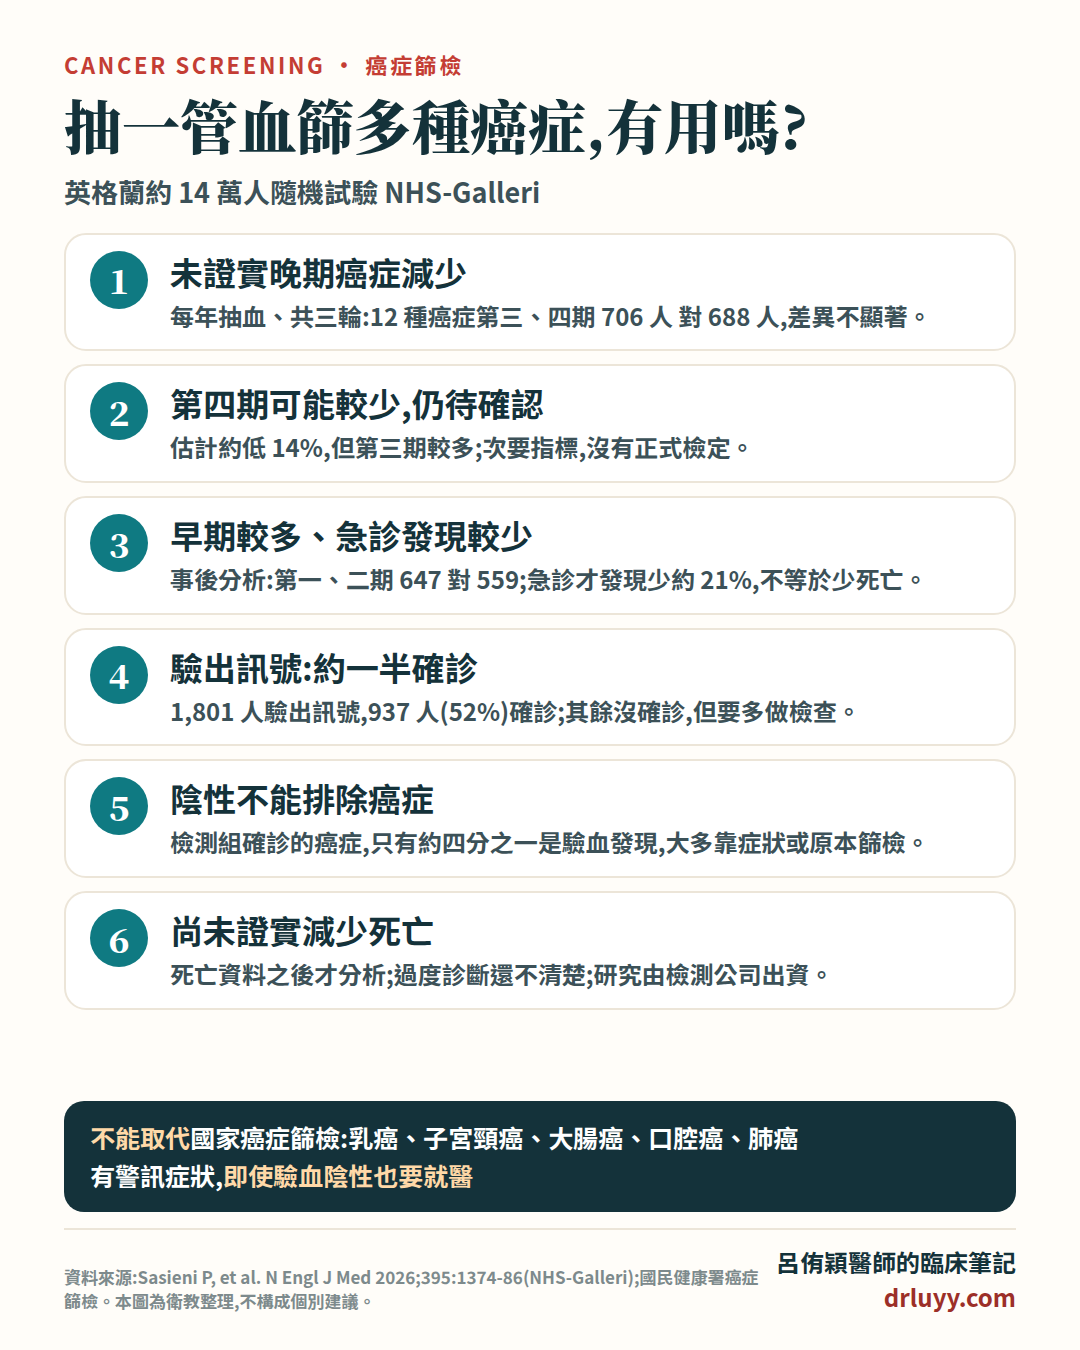
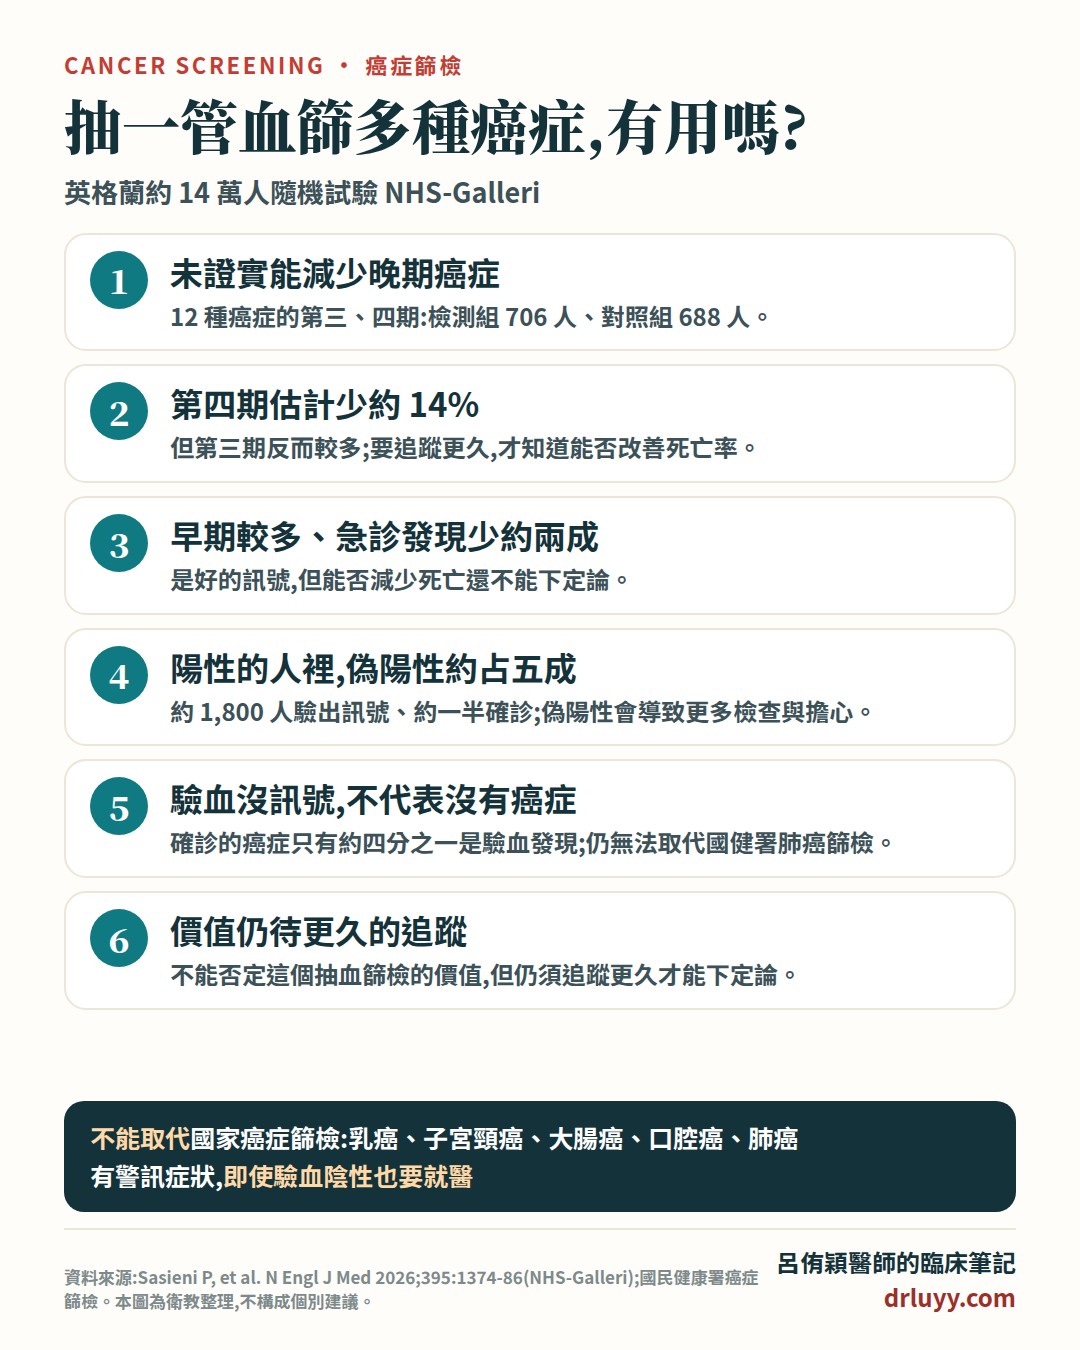
衛教卡觀點修改;影片連到文章

diff --git a/videos.html b/videos.html
@@ -22,7 +22,7 @@
 <meta name="twitter:image" content="https://drluyy.com/og-image.png">
 <link rel="icon" href="favicon.svg" type="image/svg+xml">
 <script type="application/ld+json">
-{"@context":"https://schema.org","@type":"CollectionPage","name":"衛教短影音","url":"https://drluyy.com/videos.html","inLanguage":"zh-TW","description":"呂侑穎醫師的心臟衛教短影音,一分半鐘看懂一個重點。","hasPart":[{"@type":"VideoObject","name":"打瘦瘦針,能改善睡眠呼吸中止嗎?","description":"大型試驗:平均每小時約 50 次的重度患者,打猛健樂一年少 25–29 次(安慰劑約 5 次),四到五成達到緩解或只剩輕度。台灣仿單已列入這個適應症,但目前沒有證據可以取代陽壓呼吸器。","thumbnailUrl":"https://drluyy.com/video/glp1-sleep-apnea.jpg","embedUrl":"https://www.youtube.com/embed/Pxpix6kGh5w","uploadDate":"2026-10-08"},{"@type":"VideoObject","name":"吃降膽固醇藥(史他汀),副作用很多?","description":"2026《刺胳針》彙整 12 萬多人雙盲試驗:轉胺酶升高每年約每 1,100 人多 1 人、尿蛋白約每 3,300 人、水腫約每 1,400 人多 1 人;肌肉症狀九成以上不是藥物造成;記憶、憂鬱、睡眠問題不支持是藥物造成。","thumbnailUrl":"https://drluyy.com/video/statin-side-effects.jpg","embedUrl":"https://www.youtube.com/embed/ObqJvSkbOhU","uploadDate":"2026-10-07"},{"@type":"VideoObject","name":"男性更年期,補睪固酮,心臟安全嗎?","description":"前提是真的缺:有症狀+不同日期兩次早上空腹抽血都偏低。大型試驗 TRAVERSE:心血管事件沒有明顯增加,但心房顫動、肺栓塞、急性腎損傷較多,骨折反而可能增加。睪固酮不是抗老藥。","thumbnailUrl":"https://drluyy.com/video/testosterone-heart.jpg","embedUrl":"https://www.youtube.com/embed/-3VRGAmf47E","uploadDate":"2026-10-07"},{"@type":"VideoObject","name":"魚油到底能不能顧心臟?50 多年的研究一次說清楚","description":"從格陵蘭的魚油神話、黃金年代、失落的十年,到高劑量 REDUCE-IT 與 STRENGTH 的大逆轉與礦物油爭議、心房顫動的代價,以及 2026 年血液透析病人的 PISCES 研究。EPA、DHA 差在哪?一般人該不該吃?10 分鐘說清楚。","thumbnailUrl":"https://drluyy.com/video/fish-oil-story.jpg","embedUrl":"https://www.youtube.com/embed/KcFZAurrV0c","uploadDate":"2026-10-06"},{"@type":"VideoObject","name":"喝茶、吃莓果,對血管有幫助嗎?","description":"茶、莓果、蘋果、柑橘、可可、黃豆、洋蔥都含類黃酮。2026 統合分析:血管擴張指標改善、血壓差異未達顯著,還不能證明會少得心臟病。食物優先,不必買補充品;高劑量綠茶萃取物可能傷肝。","thumbnailUrl":"https://drluyy.com/video/flavonoid-vascular.jpg","embedUrl":"https://www.youtube.com/embed/RF770M6NT6k","uploadDate":"2026-10-06"},{"@type":"VideoObject","name":"2 分鐘看懂最新研究:超過一半成人血管已有斑塊(REACT)","description":"NEJM 2026 REACT 研究,16,808 位 18–70 歲、無已知動脈硬化疾病成人:57% 至少一處有斑塊,18–29 歲約每 13 人就有 1 人;鈣化分數 0 不等於沒有斑塊;十年風險低不等於一輩子風險低。","thumbnailUrl":"https://drluyy.com/video/react-silent-atherosclerosis.jpg","embedUrl":"https://www.youtube.com/embed/pYH3h2oaMjs","uploadDate":"2026-10-05"},{"@type":"VideoObject","name":"膽固醇的風險,是累積出來的","description":"壞膽固醇不只看多高,也看多久:濃度 × 年數 = 累積暴露。家族性高膽固醇血症從小偏高累積特別快;持續降膽固醇,保護隨時間增加(每降約 39 mg/dL,重大血管事件相對風險第 1 年約 12%、第 7 年約 29%)。現在開始也有用。","thumbnailUrl":"https://drluyy.com/video/ldl-cumulative-exposure.jpg","embedUrl":"https://www.youtube.com/embed/v6VvtDtNB6M","uploadDate":"2026-10-05"},{"@type":"VideoObject","name":"打瘦瘦針期間,該怎麼吃?","description":"吃得少,更要吃得對:蛋白質每天至少 60 克、每餐 20–30 克,搭配肌力訓練;用「我的餐盤」檢查均衡;熱量不要太低;留意鈣、維生素 D、鐵、B12 和纖維;水分次喝,糖友吃少注意低血糖。","thumbnailUrl":"https://drluyy.com/video/glp1-diet.jpg","embedUrl":"https://www.youtube.com/embed/KoX4XHuXgGQ","uploadDate":"2026-10-04"},{"@type":"VideoObject","name":"喝咖啡護肝,是真的嗎?","description":"英國約 35 萬人、中位追蹤 13 年:每天 1–2 杯咖啡就看到較低的肝硬化、肝癌、肝病死亡風險,去咖啡因也相似;但不是越多越好,只是關聯,也未證實能治療脂肪肝。咖啡因每天 ≤400 毫克,孕婦 <200 毫克。","thumbnailUrl":"https://drluyy.com/video/coffee-liver.jpg","embedUrl":"https://www.youtube.com/embed/mgwmsnLt5VY","uploadDate":"2026-10-03"},{"@type":"VideoObject","name":"走路腿痠、休息就好?周邊動脈疾病","description":"估計 2023 年全球 25 歲以上約 3.17 億人有周邊動脈疾病,很多人沒症狀。踝肱指數 ≤0.90 代表腿部動脈可能變窄;哪些人該跟醫師討論檢查、發現後怎麼辦,以及一隻腳突然冰冷蒼白要立刻急診。","thumbnailUrl":"https://drluyy.com/video/pad-early-detection.jpg","embedUrl":"https://www.youtube.com/embed/EBQJbYHrykA","uploadDate":"2026-10-03"},{"@type":"VideoObject","name":"長輩血壓偏低,降血壓藥可以減嗎?","description":"法國 RETREAT-FRAIL 試驗:1048 位衰弱的護理之家長輩,醫師一次減一種藥,降壓藥從 2.6 種減到 1.5 種,但沒有證實活得更久;沒看到明確差異不等於證明一樣安全。家屬可以怎麼準備,以及為什麼不能自己停藥。","thumbnailUrl":"https://drluyy.com/video/bp-deprescribing-frail-elderly.jpg","embedUrl":"https://www.youtube.com/embed/NdSPPs2fRX0","uploadDate":"2026-10-02"},{"@type":"VideoObject","name":"要做心導管了?從準備到回家,一次看懂(完整版)","description":"約 6 分鐘、8 個章節:導管怎麼從手腕走到心臟、支架怎麼放進血管、檢查前準備、檢查當下的感覺、手腕與鼠蹊部傷口照顧、放支架後不能自己停的抗血小板藥、回家後的生活與立刻回醫院的警訊。","thumbnailUrl":"https://drluyy.com/video/cardiac-catheterization.jpg","embedUrl":"https://www.youtube.com/embed/DuPJldnihe4","uploadDate":"2026-10-02"},{"@type":"VideoObject","name":"健檢報告寫「冠狀動脈鈣化」怎麼辦?","description":"肺部斷層常順便看到冠狀動脈鈣化:它是警訊,不是判決。鈣化分數代表鈣化的量,新指引用它決定要不要吃降膽固醇藥;有胸悶、活動喘、胸痛要就醫,突發持續胸痛打 119。","thumbnailUrl":"https://drluyy.com/video/coronary-calcium.jpg","embedUrl":"https://www.youtube.com/embed/X7WPKdSAmlE","uploadDate":"2026-10-02"},{"@type":"VideoObject","name":"心臟病發作的警訊:懷疑就打 119","description":"胸口壓迫、緊縮、悶痛,也可能出現在手臂、背、脖子、下巴、上腹部;女性、糖尿病患者和長輩症狀可能不典型。懷疑就馬上打 119,有人倒下要壓胸、找 AED。","thumbnailUrl":"https://drluyy.com/video/heart-attack-warning-signs.jpg","embedUrl":"https://www.youtube.com/embed/DqWsGc07FbQ","uploadDate":"2026-10-01"},{"@type":"VideoObject","name":"脂蛋白(a):藏在基因裡的隱形兇手","description":"不菸不酒、三高正常,為什麼還會早發心肌梗塞?脂蛋白(a) 幾乎由基因決定,成人一生至少驗一次;台灣檢驗參考值常抓 < 30 mg/dL。","thumbnailUrl":"https://drluyy.com/video/lipoprotein-a.jpg","embedUrl":"https://www.youtube.com/embed/NuIPrM_tmhw","uploadDate":"2026-10-01"}]}
+{"@context":"https://schema.org","@type":"CollectionPage","name":"衛教短影音","url":"https://drluyy.com/videos.html","inLanguage":"zh-TW","description":"呂侑穎醫師的心臟衛教短影音,一分半鐘看懂一個重點。","hasPart":[{"@type":"VideoObject","name":"抽一管血,就能篩檢多種癌症?","description":"英國 14 萬人 NHS-Galleri 試驗(NEJM 2026):12 種癌症的晚期 706 人 對 688 人,沒有證實減少;陽性的人裡偽陽性約占五成;確診的癌症只有約四分之一是驗血發現。不能取代國健署五癌篩檢。","thumbnailUrl":"https://drluyy.com/video/mced-blood-cancer-screening.jpg","embedUrl":"https://www.youtube.com/embed/nJYWowuOD9I","uploadDate":"2026-10-09"},{"@type":"VideoObject","name":"打瘦瘦針,能改善睡眠呼吸中止嗎?","description":"大型試驗:平均每小時約 50 次的重度患者,打猛健樂一年少 25–29 次(安慰劑約 5 次),四到五成達到緩解或只剩輕度。台灣仿單已列入這個適應症,但目前沒有證據可以取代陽壓呼吸器。","thumbnailUrl":"https://drluyy.com/video/glp1-sleep-apnea.jpg","embedUrl":"https://www.youtube.com/embed/Pxpix6kGh5w","uploadDate":"2026-10-08"},{"@type":"VideoObject","name":"吃降膽固醇藥(史他汀),副作用很多?","description":"2026《刺胳針》彙整 12 萬多人雙盲試驗:轉胺酶升高每年約每 1,100 人多 1 人、尿蛋白約每 3,300 人、水腫約每 1,400 人多 1 人;肌肉症狀九成以上不是藥物造成;記憶、憂鬱、睡眠問題不支持是藥物造成。","thumbnailUrl":"https://drluyy.com/video/statin-side-effects.jpg","embedUrl":"https://www.youtube.com/embed/ObqJvSkbOhU","uploadDate":"2026-10-07"},{"@type":"VideoObject","name":"男性更年期,補睪固酮,心臟安全嗎?","description":"前提是真的缺:有症狀+不同日期兩次早上空腹抽血都偏低。大型試驗 TRAVERSE:心血管事件沒有明顯增加,但心房顫動、肺栓塞、急性腎損傷較多,骨折反而可能增加。睪固酮不是抗老藥。","thumbnailUrl":"https://drluyy.com/video/testosterone-heart.jpg","embedUrl":"https://www.youtube.com/embed/-3VRGAmf47E","uploadDate":"2026-10-07"},{"@type":"VideoObject","name":"魚油到底能不能顧心臟?50 多年的研究一次說清楚","description":"從格陵蘭的魚油神話、黃金年代、失落的十年,到高劑量 REDUCE-IT 與 STRENGTH 的大逆轉與礦物油爭議、心房顫動的代價,以及 2026 年血液透析病人的 PISCES 研究。EPA、DHA 差在哪?一般人該不該吃?10 分鐘說清楚。","thumbnailUrl":"https://drluyy.com/video/fish-oil-story.jpg","embedUrl":"https://www.youtube.com/embed/KcFZAurrV0c","uploadDate":"2026-10-06"},{"@type":"VideoObject","name":"喝茶、吃莓果,對血管有幫助嗎?","description":"茶、莓果、蘋果、柑橘、可可、黃豆、洋蔥都含類黃酮。2026 統合分析:血管擴張指標改善、血壓差異未達顯著,還不能證明會少得心臟病。食物優先,不必買補充品;高劑量綠茶萃取物可能傷肝。","thumbnailUrl":"https://drluyy.com/video/flavonoid-vascular.jpg","embedUrl":"https://www.youtube.com/embed/RF770M6NT6k","uploadDate":"2026-10-06"},{"@type":"VideoObject","name":"2 分鐘看懂最新研究:超過一半成人血管已有斑塊(REACT)","description":"NEJM 2026 REACT 研究,16,808 位 18–70 歲、無已知動脈硬化疾病成人:57% 至少一處有斑塊,18–29 歲約每 13 人就有 1 人;鈣化分數 0 不等於沒有斑塊;十年風險低不等於一輩子風險低。","thumbnailUrl":"https://drluyy.com/video/react-silent-atherosclerosis.jpg","embedUrl":"https://www.youtube.com/embed/pYH3h2oaMjs","uploadDate":"2026-10-05"},{"@type":"VideoObject","name":"膽固醇的風險,是累積出來的","description":"壞膽固醇不只看多高,也看多久:濃度 × 年數 = 累積暴露。家族性高膽固醇血症從小偏高累積特別快;持續降膽固醇,保護隨時間增加(每降約 39 mg/dL,重大血管事件相對風險第 1 年約 12%、第 7 年約 29%)。現在開始也有用。","thumbnailUrl":"https://drluyy.com/video/ldl-cumulative-exposure.jpg","embedUrl":"https://www.youtube.com/embed/v6VvtDtNB6M","uploadDate":"2026-10-05"},{"@type":"VideoObject","name":"打瘦瘦針期間,該怎麼吃?","description":"吃得少,更要吃得對:蛋白質每天至少 60 克、每餐 20–30 克,搭配肌力訓練;用「我的餐盤」檢查均衡;熱量不要太低;留意鈣、維生素 D、鐵、B12 和纖維;水分次喝,糖友吃少注意低血糖。","thumbnailUrl":"https://drluyy.com/video/glp1-diet.jpg","embedUrl":"https://www.youtube.com/embed/KoX4XHuXgGQ","uploadDate":"2026-10-04"},{"@type":"VideoObject","name":"喝咖啡護肝,是真的嗎?","description":"英國約 35 萬人、中位追蹤 13 年:每天 1–2 杯咖啡就看到較低的肝硬化、肝癌、肝病死亡風險,去咖啡因也相似;但不是越多越好,只是關聯,也未證實能治療脂肪肝。咖啡因每天 ≤400 毫克,孕婦 <200 毫克。","thumbnailUrl":"https://drluyy.com/video/coffee-liver.jpg","embedUrl":"https://www.youtube.com/embed/mgwmsnLt5VY","uploadDate":"2026-10-03"},{"@type":"VideoObject","name":"走路腿痠、休息就好?周邊動脈疾病","description":"估計 2023 年全球 25 歲以上約 3.17 億人有周邊動脈疾病,很多人沒症狀。踝肱指數 ≤0.90 代表腿部動脈可能變窄;哪些人該跟醫師討論檢查、發現後怎麼辦,以及一隻腳突然冰冷蒼白要立刻急診。","thumbnailUrl":"https://drluyy.com/video/pad-early-detection.jpg","embedUrl":"https://www.youtube.com/embed/EBQJbYHrykA","uploadDate":"2026-10-03"},{"@type":"VideoObject","name":"長輩血壓偏低,降血壓藥可以減嗎?","description":"法國 RETREAT-FRAIL 試驗:1048 位衰弱的護理之家長輩,醫師一次減一種藥,降壓藥從 2.6 種減到 1.5 種,但沒有證實活得更久;沒看到明確差異不等於證明一樣安全。家屬可以怎麼準備,以及為什麼不能自己停藥。","thumbnailUrl":"https://drluyy.com/video/bp-deprescribing-frail-elderly.jpg","embedUrl":"https://www.youtube.com/embed/NdSPPs2fRX0","uploadDate":"2026-10-02"},{"@type":"VideoObject","name":"要做心導管了?從準備到回家,一次看懂(完整版)","description":"約 6 分鐘、8 個章節:導管怎麼從手腕走到心臟、支架怎麼放進血管、檢查前準備、檢查當下的感覺、手腕與鼠蹊部傷口照顧、放支架後不能自己停的抗血小板藥、回家後的生活與立刻回醫院的警訊。","thumbnailUrl":"https://drluyy.com/video/cardiac-catheterization.jpg","embedUrl":"https://www.youtube.com/embed/DuPJldnihe4","uploadDate":"2026-10-02"},{"@type":"VideoObject","name":"健檢報告寫「冠狀動脈鈣化」怎麼辦?","description":"肺部斷層常順便看到冠狀動脈鈣化:它是警訊,不是判決。鈣化分數代表鈣化的量,新指引用它決定要不要吃降膽固醇藥;有胸悶、活動喘、胸痛要就醫,突發持續胸痛打 119。","thumbnailUrl":"https://drluyy.com/video/coronary-calcium.jpg","embedUrl":"https://www.youtube.com/embed/X7WPKdSAmlE","uploadDate":"2026-10-02"},{"@type":"VideoObject","name":"心臟病發作的警訊:懷疑就打 119","description":"胸口壓迫、緊縮、悶痛,也可能出現在手臂、背、脖子、下巴、上腹部;女性、糖尿病患者和長輩症狀可能不典型。懷疑就馬上打 119,有人倒下要壓胸、找 AED。","thumbnailUrl":"https://drluyy.com/video/heart-attack-warning-signs.jpg","embedUrl":"https://www.youtube.com/embed/DqWsGc07FbQ","uploadDate":"2026-10-01"},{"@type":"VideoObject","name":"脂蛋白(a):藏在基因裡的隱形兇手","description":"不菸不酒、三高正常,為什麼還會早發心肌梗塞?脂蛋白(a) 幾乎由基因決定,成人一生至少驗一次;台灣檢驗參考值常抓 < 30 mg/dL。","thumbnailUrl":"https://drluyy.com/video/lipoprotein-a.jpg","embedUrl":"https://www.youtube.com/embed/NuIPrM_tmhw","uploadDate":"2026-10-01"}]}
 </script>
 <link rel="preconnect" href="https://fonts.googleapis.com">
 <link rel="preconnect" href="https://fonts.gstatic.com" crossorigin>
@@ -66,7 +66,7 @@ gtag('config', 'G-BC1Z8X6BQT');
 <h1>衛教短影音</h1>
 <p>一分半鐘看懂一個心臟衛教重點。可以直接在這裡播放,也歡迎到 YouTube、臉書、Threads 訂閱分享。</p>
 </div>
-<div class="article-count">15 支影片</div>
+<div class="article-count">16 支影片</div>
 
 <div class="video-grid">
 <article class="video-card wide" id="fish-oil-story">
@@ -94,6 +94,20 @@ gtag('config', 'G-BC1Z8X6BQT');
 <a class="vl-fb" href="https://www.facebook.com/reel/1659211208894161" target="_blank" rel="noopener">臉書</a>
 <a class="vl-threads" href="https://www.threads.com/@aluminum001/post/Dd-betEmTzI" target="_blank" rel="noopener">Threads</a>
 <a class="vl-yt" href="https://www.youtube.com/watch?v=DuPJldnihe4" target="_blank" rel="noopener">YouTube</a>
+</div>
+</div>
+</article>
+<article class="video-card" id="mced-blood-cancer-screening">
+<button class="yt-lite" data-yt="nJYWowuOD9I" aria-label="播放影片:抽一管血,就能篩檢多種癌症?"><img src="video/mced-blood-cancer-screening.jpg" alt="" width="540" height="960" loading="lazy"><span class="yt-play"></span></button>
+<div class="video-body">
+<h2 class="video-title">抽一管血,就能篩檢多種癌症?</h2>
+<div class="video-meta"><span>2026-10-09</span><span>2:26</span></div>
+<p class="video-desc">英國 14 萬人 NHS-Galleri 試驗(NEJM 2026):12 種癌症的晚期 706 人 對 688 人,沒有證實減少;陽性的人裡偽陽性約占五成;確診的癌症只有約四分之一是驗血發現。不能取代國健署五癌篩檢。</p>
+<div class="video-links">
+<a class="vl-article" href="posts/mced-blood-cancer-screening.html">完整文章 →</a>
+<a class="vl-fb" href="https://www.facebook.com/reel/1554574823371237" target="_blank" rel="noopener">臉書</a>
+<a class="vl-threads" href="https://www.threads.com/@aluminum001/post/DeQe3s6FTv2" target="_blank" rel="noopener">Threads</a>
+<a class="vl-yt" href="https://www.youtube.com/watch?v=nJYWowuOD9I" target="_blank" rel="noopener">YouTube</a>
 </div>
 </div>
 </article>
